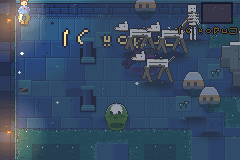
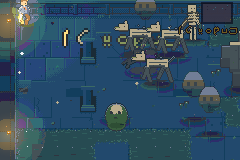
perf(S6.0): enable scene palette lock — M5 dungeon 99.8%

diff --git a/js/art/pm_snap.js b/js/art/pm_snap.js
@@ -6,7 +6,7 @@ import { PALETTE_MASTER } from './palette_master.js';
 
 // پیشفرض **خاموش**: قفلِ پالت M5 را از ۱۰٫۶٪ به ۹۹٫۷٪ میبرد ولی ~+۰٫۴۹ms در فریمِ دانجن
 // میافزاید و فاصلهی تمها را کم میکند ⇒ تصمیمِ روشن/خاموش با کاربر (ن۸۸ در MEMORY.md)
-export const PM_SNAP = { on: false, sprites: true };                    // on: قفلِ صحنه (opt-in) · sprites: قفلِ اسپرایتها در زمانِ پخت (S4.6c، ارزان)
+export const PM_SNAP = { on: true, sprites: true };   // S6.0/R3: قفلِ صحنه روشن شد (تصمیمِ کاربر پس از R3) — M5 دانجن ۱۱٫۶٪→۹۹٫۸٪                    // on: قفلِ صحنه (opt-in) · sprites: قفلِ اسپرایتها در زمانِ پخت (S4.6c، ارزان)
 export const SNAP_INFO = { n: 0, px: 0, moved: 0 };                      // شمارشِ اسنپِ اسپرایت (QA)
 export const PM_SNAP_INFO = { built: 0, ms: 0, cells: 0, pal: 0 };      // شمارشِ ساخت (QA)
 

diff --git a/game.html b/game.html
@@ -3521,7 +3521,7 @@ const __m_art_pm_snap = (() => {
 
 // پیشفرض **خاموش**: قفلِ پالت M5 را از ۱۰٫۶٪ به ۹۹٫۷٪ میبرد ولی ~+۰٫۴۹ms در فریمِ دانجن
 // میافزاید و فاصلهی تمها را کم میکند ⇒ تصمیمِ روشن/خاموش با کاربر (ن۸۸ در MEMORY.md)
-const PM_SNAP = { on: false, sprites: true };                    // on: قفلِ صحنه (opt-in) · sprites: قفلِ اسپرایتها در زمانِ پخت (S4.6c، ارزان)
+const PM_SNAP = { on: true, sprites: true };   // S6.0/R3: قفلِ صحنه روشن شد (تصمیمِ کاربر پس از R3) — M5 دانجن ۱۱٫۶٪→۹۹٫۸٪                    // on: قفلِ صحنه (opt-in) · sprites: قفلِ اسپرایتها در زمانِ پخت (S4.6c، ارزان)
 const SNAP_INFO = { n: 0, px: 0, moved: 0 };                      // شمارشِ اسنپِ اسپرایت (QA)
 const PM_SNAP_INFO = { built: 0, ms: 0, cells: 0, pal: 0 };      // شمارشِ ساخت (QA)
 
